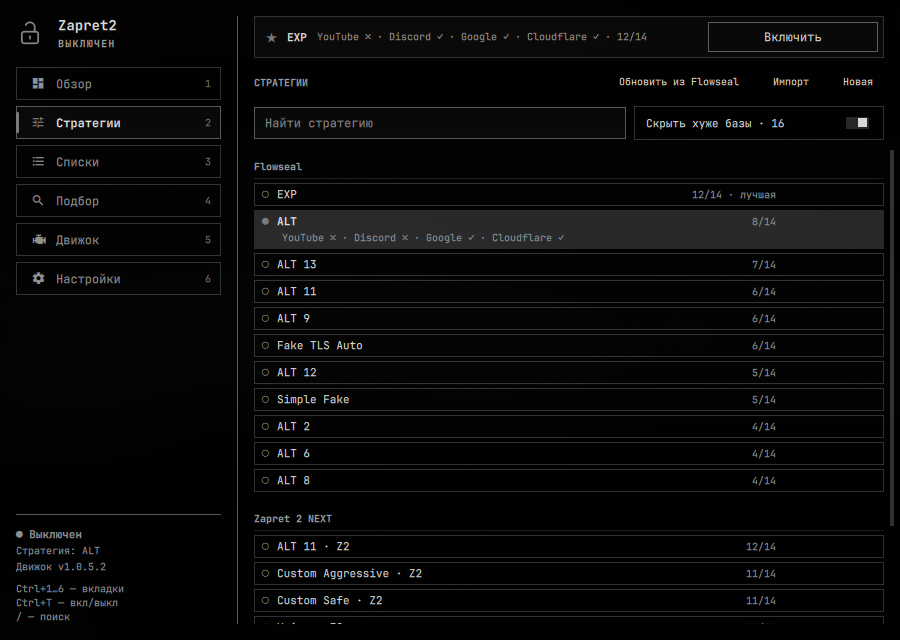
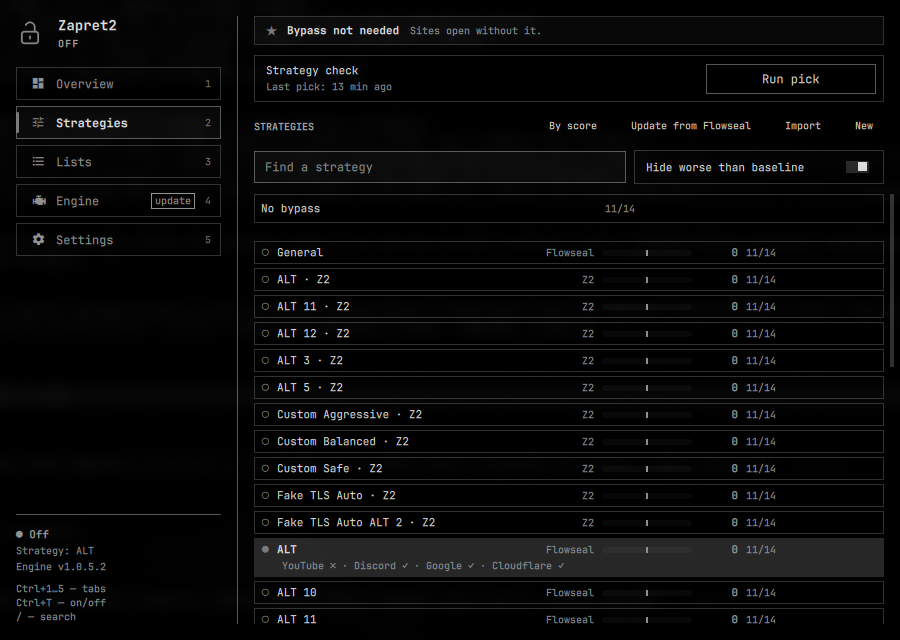
Backup import: bounded reads; pick: space unit starts; README and preview
Reviewer finding on c4bb8a2: import trusted the ZIP-declared sizes and then
called zf.read(), so forged metadata could make CPython inflate hundreds of
MiB before any check. Each member is now read through zf.open() capped at
one byte past the per-file limit, with a running total. A test with a
200 MiB stream and forged sizes fails on the old code (peak memory over
16 MiB) and passes now.

Separately, a pick over a fast network (a VPN) restarted the unit once a
second, hit systemd's start limit (5 per 10 s) and left it failed.
systemctl() now spaces start/restart so the sixth waits.

README describes the merged Strategies tab, circular config and language.

Claude-Session: https://claude.ai/code/session_01FBJLXA5KPQUQDCTSuCkhdj

diff --git a/tests/manager/test_manager.py b/tests/manager/test_manager.py
@@ -441,6 +441,34 @@ class ExportImport(unittest.TestCase):
             zm.cmd_import([])
         return emitted
 
+    def test_import_forged_size_cannot_balloon(self):
+        # The declared sizes are forged small while the stream holds ~200 MiB
+        # of zeros (a few hundred KiB deflated): the import must refuse it
+        # without ever holding the stream in memory.
+        import base64
+        import io
+        import tracemalloc
+        import zipfile
+        buf = io.BytesIO()
+        with zipfile.ZipFile(buf, "w", zipfile.ZIP_DEFLATED) as zf:
+            with zf.open("lists/list-general-user.txt", "w", force_zip64=True) as w:
+                chunk = b"0" * (1 << 20)
+                for _ in range(200):
+                    w.write(chunk)
+            for info in zf.infolist():
+                info.file_size = 100
+        text = base64.b64encode(buf.getvalue()).decode("ascii")
+        with tempfile.TemporaryDirectory() as tmp:
+            var = self._setup_var(tmp)
+            tracemalloc.start()
+            try:
+                with self.assertRaises(zm.Fail):
+                    self._import_stdin(var, text)
+                peak = tracemalloc.get_traced_memory()[1]
+            finally:
+                tracemalloc.stop()
+        self.assertLess(peak, 16 * 1024 * 1024)
+
     def _zip_b64(self, members):
         import base64
         import io
@@ -1335,3 +1363,22 @@ class CircularStrategy(unittest.TestCase):
         for body, expected in ((text, True), (open(os.path.join(zm.DATA, "presets", "alt.txt")).read(), False)):
             args = zm.render_args("my-x", zm.parse_preset(body), settings, "/E", "/L", ["/F"], counts)
             self.assertEqual("--lua-init=@/E/lua/zapret-auto.lua" in args, expected)
+
+
+class StartSpacing(unittest.TestCase):
+    def test_fifth_start_in_ten_seconds_waits(self):
+        # Regression: a pick that restarts the unit once a second hit
+        # systemd's start limit and left the service failed.
+        slept = []
+        ok = mock.Mock(returncode=0, stderr="")
+        zm.START_TIMES.clear()
+        with mock.patch.object(zm, "sh", lambda *a, **k: ok), \
+             mock.patch.object(zm.time, "sleep", slept.append):
+            for _ in range(4):
+                zm.systemctl("restart", "u.service")
+            self.assertEqual(slept, [])
+            zm.systemctl("restart", "u.service")
+            zm.systemctl("stop", "u.service")                      # stops are never delayed
+        self.assertEqual(len(slept), 1)
+        self.assertGreater(slept[0], 5)
+        zm.START_TIMES.clear()

diff --git a/README.md b/README.md
@@ -57,18 +57,23 @@ the app under Движок → Удаление.
 
 - **Overview**: on/off, the active strategy, reachability of YouTube, Discord,
   Google and Cloudflare (TLS and, when curl has HTTP/3, QUIC) per URL.
-- **Strategies**: Zapret 2 NEXT presets (shown with " · Z2", e.g. "General · Z2")
-  and Flowseal presets (without suffix), plus your own, edited in the window.
+- **Strategies**: one ranked list of Zapret 2 NEXT presets (shown with " · Z2"),
+  Flowseal presets and your own, each with a score bar against the no-bypass
+  baseline. *Run pick* tries the presets one by one (1–3 min, no password) and
+  fills the scores in; a header button switches between "by score" and "by
+  source". Under **Advanced search**: *Circular config* builds the own strategy
+  `my-circular`, which rotates between the best presets per host (zapret2's
+  `circular` orchestrator; its syntax passes `nfqws2 --dry-run`, rotation on a
+  real DPI-filtered network is untested), and *blockcheck2* runs zapret2's own
+  exhaustive search (quick/standard/force) and lets you save a finding as a
+  strategy. blockcheck2 needs `host` or `nslookup`: `omarchy pkg add bind`.
 - **Lists**: your sites, exclusions and IP networks; the bundled lists
   (read-only) and **Update from Flowseal** for fresh upstream lists. One
   domain per line covers its subdomains; `^domain` means that host only.
-- **Search**: *quick autopick* tries the presets one by one and keeps the
-  best (1–3 min, no password); *blockcheck2* runs zapret2's own exhaustive
-  search (quick/standard/force) and lets you save a finding as a strategy.
-- **Search** needs `host` or `nslookup` for blockcheck2: `omarchy pkg add bind`.
 - **Engine**: version, engine update, update of the system copy after a plugin
   update, doctor, service log, removal.
-- **Settings**: start at login, IPv6, game filter (TCP/UDP 1024–65535 by
+- **Settings**: language (English by default, Russian available), start at
+  login, IPv6, game filter (TCP/UDP 1024–65535 by
   ipset), ipset mode, Discord voice mode.
 - **Bar**: click for a popup (switch, strategy, last check), right-click
   toggles, middle-click opens the app. Bright filled shield when on, outline
